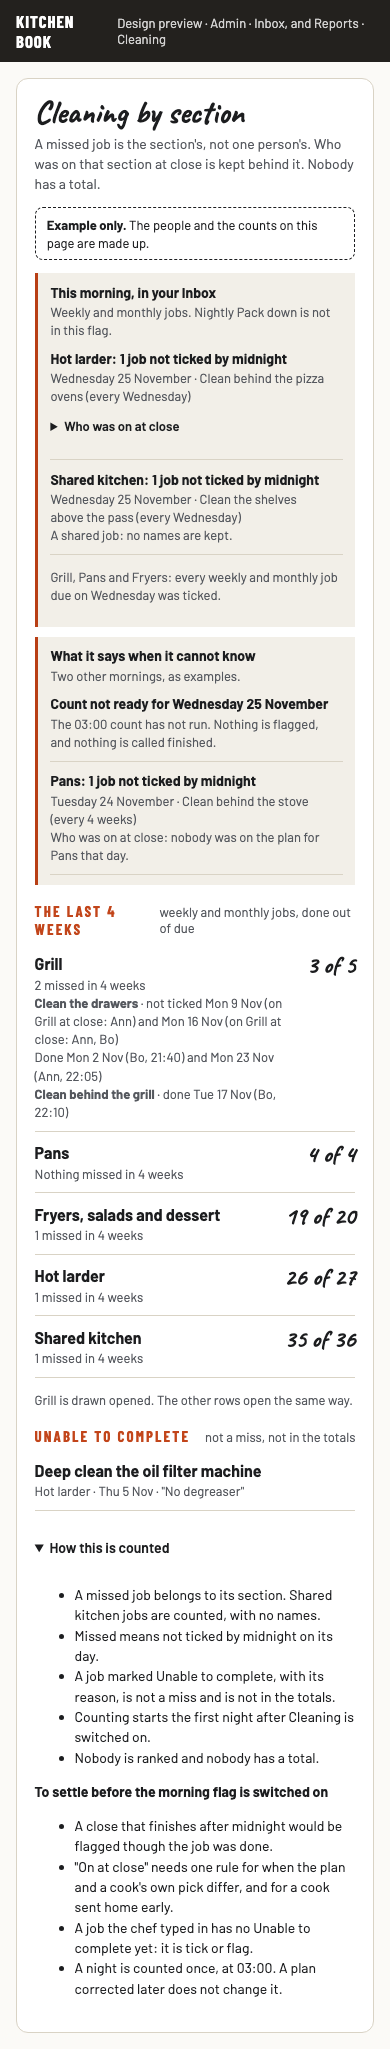
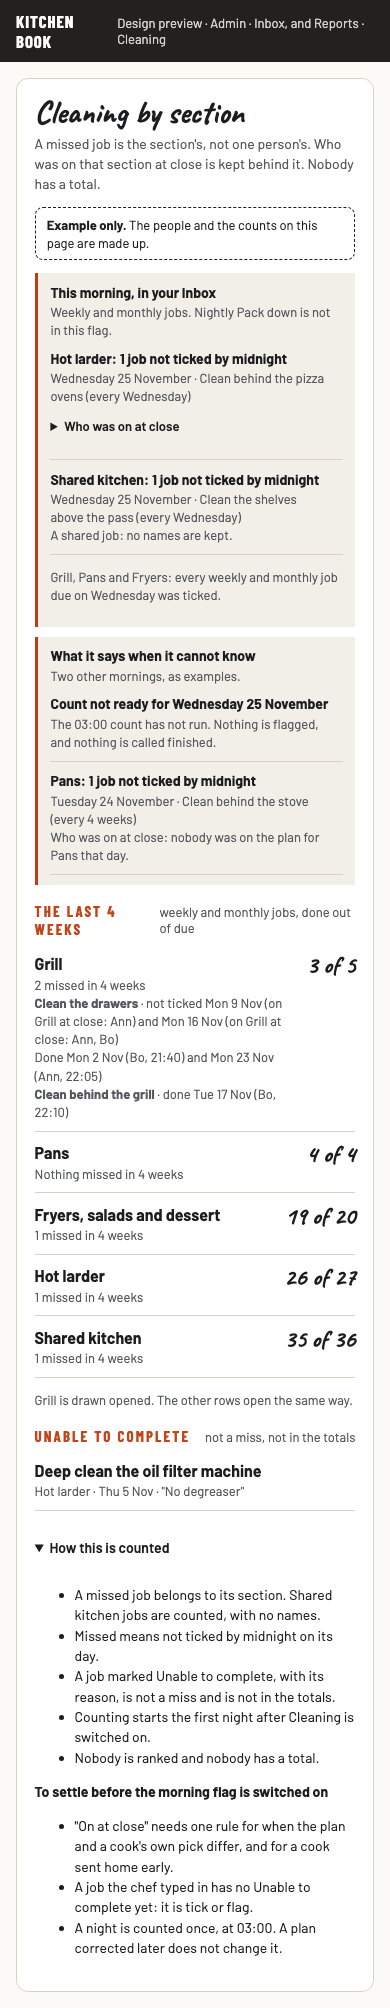
Cleaning tracking: the head chef's answers, day levels and the rule order
He answered: a close never finishes after midnight, Thursday is a heavy
day, Tuesday a medium one, and the admin sets each day's level. He asked
which should win when same-kind days and an even week clash. The planner
takes day levels and a section-first order (32 node checks), and the
brief records the three orders side by side with the recommendation.

Changed region(s): [[0.0308, 0.0, 0.9231, 0.988]]

diff --git a/docs/cleaning-tracking-options/previews/planner.js b/docs/cleaning-tracking-options/previews/planner.js
@@ -6,19 +6,25 @@
           per (days a week it happens, 1 to 3), days (the weekdays it has now, [] for none; 0 is Sunday),
           move (the chef chose it to be planned), every (a repeat's days, 2 to 30 as the rules allow: 28 for a monthly job) }
    A job that is not chosen (move false) is never touched: it only counts toward each day's load.
-   opts: { quiet: [5, 6] (Friday, Saturday), share: 0.1, cap: 5, together: true (jobs of one kind share a day) }
+   opts: { quiet: [5, 6] (Friday, Saturday), share: 0.1, cap: 5, together: true (jobs of one kind share a day),
+           level: the heaviest job each weekday takes, Sunday first (3 heavy, 2 medium, 1 light), set by the admin.
+                  Left out, it is heavy every day but the quiet ones. Given, the quiet days are its light days.
+           order: 'kind' (rule 4 before rule 5, as below) or 'section' (rule 5 before rule 4: a job joins its kind's
+                  day only when that does not make its section's heaviest night heavier) }
    check(jobs, days, opts) -> the rules a set of days breaks, in words ([] for none): what a page runs again whenever a
    chef changes or leaves out one line of a proposal, so a plan never breaks its own rules without saying so.
 
    The order the rules win in, when they pull against each other:
-   1. Friday and Saturday take light jobs only. A job with no weight is never treated as light.
+   1. A day takes no job heavier than its level: Friday and Saturday take light jobs only. A job with no weight
+      counts as medium, never as light.
    2. Friday and Saturday together hold at most a tenth of the week's jobs that come round (share).
    3. A section never gets two heavy jobs on one day, and a job on several days has them at least two days apart.
    4. The same kind of job in different sections goes on the same day, unless that would push a section past cap
       weight points on that day. Then the kind gives way, and the plan says so (gave).
    5. Each section's days are as even as they can be, then the kitchen's days.
    6. A job that has a day keeps it unless a rule above moves it or its kind's day is elsewhere. With same-kind days
-      off, a job that has a day always keeps it. Friday and Saturday are allowed for a light job, never preferred.
+      off, a job that has a day keeps it unless that day's level does not take it (rule 1). Friday and Saturday are
+      allowed for a light job, never preferred.
    A job on whole weeks (every 7, 14, 21 or 28) keeps one weekday: it gets it by the same rules, and a starting week,
    1 to every / 7, so jobs on one rhythm do not all start in the same week.
    A job on any other rhythm (every 2 to 6, 8 to 13 and so on) has no weekday to choose: it falls on a different one
@@ -42,7 +48,9 @@
   }
   function plan(jobs, opts) {
     opts = opts || {};
-    var quiet = opts.quiet || [5, 6], share = opts.share === undefined ? 0.1 : opts.share, cap = opts.cap || 5, together = opts.together !== false;
+    var quiet = opts.quiet || [5, 6], share = opts.share === undefined ? 0.1 : opts.share, cap = opts.cap || 5, together = opts.together !== false, sectionFirst = opts.order === 'section';
+    if (opts.level) quiet = [0, 1, 2, 3, 4, 5, 6].filter(function (d) { return opts.level[d] === 1; });
+    var level = opts.level || [0, 1, 2, 3, 4, 5, 6].map(function (d) { return quiet.indexOf(d) >= 0 ? 1 : 3; });
     // a job's time cost in the day's load: light 1, medium 2, heavy 3. Not set counts as medium there, and is never
     // light enough for Friday or Saturday (rule 1).
     var cost = function (j) { return j.w >= 1 && j.w <= 3 ? j.w : 2; };
@@ -69,13 +77,15 @@
       var best = null, was = (j.days || []).slice().sort().join(','), kindGave = false, heavyGave = false, where = j.sec || 'the kitchen';
       sets(j.per || 1).forEach(function (set) {
         var q = set.filter(function (d) { return quiet.indexOf(d) >= 0; }).length;
-        if (q && (j.w !== 1 || quietUsed + q > quietMax)) return;                                          // rules 1 and 2
+        if (set.some(function (d) { return level[d] < cost(j); }) || (q && quietUsed + q > quietMax)) return;   // rules 1 and 2
         // a tenth is a limit, not a target: a job that has a day is never moved onto Friday or Saturday to even the week
         if (was && set.some(function (d) { return quiet.indexOf(d) >= 0 && (j.days || []).indexOf(d) < 0; })) return;
         if (j.w === 3 && j.sec && set.some(function (d) { return heavy[j.sec] && heavy[j.sec][d]; })) { if (together && j.kind && kinds[j.kind] && set.some(function (d) { return kinds[j.kind][d]; })) heavyGave = true; return; }   // rule 3
         var load = j.sec ? set.reduce(function (n, d) { return Math.max(n, ((sec[j.sec] || [])[d] || 0) + cost(j)); }, 0) : 0;
         var mates = together ? set.reduce(function (n, d) { return n + (j.kind && kinds[j.kind] ? kinds[j.kind][d] : 0); }, 0) : 0;
-        var over = load > cap, score = (over ? 0 : -1000 * mates) + (set.join(',') === was ? (together ? -300 : -100000) : 0) + 150 * q + 100 * load + 10 * set.reduce(function (n, d) { return n + kitchen[d]; }, 0);
+        // the section's heaviest night of the week if the job goes on this set
+        var worst = j.sec ? [0, 1, 2, 3, 4, 5, 6].reduce(function (n, d) { return Math.max(n, ((sec[j.sec] || [])[d] || 0) + (set.indexOf(d) >= 0 ? cost(j) : 0)); }, 0) : 0;
+        var over = load > cap, score = (sectionFirst ? 100000 * worst : 0) + (over ? 0 : -1000 * mates) + (set.join(',') === was ? (together ? -300 : -100000) : 0) + 150 * q + 100 * load + 10 * set.reduce(function (n, d) { return n + kitchen[d]; }, 0);
         if (over && mates) kindGave = true;
         if (!best || score < best.score) best = { set: set, score: score, mates: mates, over: over, load: load };
       });
@@ -97,12 +107,15 @@
   function check(jobs, days, opts) {
     opts = opts || {};
     var quiet = opts.quiet || [5, 6], share = opts.share === undefined ? 0.1 : opts.share, cap = opts.cap || 5, out = [], sec = {}, heavy = {}, q = 0, total = 0;
+    if (opts.level) quiet = [0, 1, 2, 3, 4, 5, 6].filter(function (d) { return opts.level[d] === 1; });
+    var level = opts.level || [0, 1, 2, 3, 4, 5, 6].map(function (d) { return quiet.indexOf(d) >= 0 ? 1 : 3; }), need = function (j) { return j.w >= 1 && j.w <= 3 ? j.w : 2; };
     jobs.forEach(function (j) {
       var mine = days[j.id] || (j.every ? [] : j.days || []);
       if (!j.every && mine.length >= 7 || !mine.length) return;
       total += mine.length;
       mine.forEach(function (d) {
-        if (quiet.indexOf(d) >= 0) { q++; if (days[j.id] && j.w !== 1) out.push(j.text + ': only a light job goes on ' + NAMES[d]); }
+        if (quiet.indexOf(d) >= 0) q++;
+        if (days[j.id] && level[d] < need(j)) out.push(j.text + (level[d] === 1 ? ': only a light job goes on ' + NAMES[d] : ': a heavy job does not go on ' + NAMES[d] + ', a medium day'));
         if (!j.sec) return;
         sec[j.sec] = sec[j.sec] || [0, 0, 0, 0, 0, 0, 0]; sec[j.sec][d] += j.w >= 1 && j.w <= 3 ? j.w : 2;
         if (j.w === 3) { heavy[j.sec + d] = (heavy[j.sec + d] || 0) + 1; if (heavy[j.sec + d] === 2) out.push(j.sec + ' has two heavy jobs on ' + NAMES[d]); }
@@ -110,7 +123,12 @@
     });
     if (q > Math.floor(total * share)) out.push('Friday and Saturday hold ' + q + ' jobs, more than a tenth of the week');
     // a job already on Friday or Saturday that is not marked light is the chef's to look at: the planner never chose it
-    jobs.forEach(function (j) { if (!days[j.id] && !j.every && (j.days || []).length < 7 && (j.days || []).some(function (d) { return quiet.indexOf(d) >= 0; }) && j.w !== 1) out.push(j.text + ' is on ' + j.days.filter(function (d) { return quiet.indexOf(d) >= 0; }).map(function (d) { return NAMES[d]; }).join(' and ') + ' and is not marked light'); });
+    jobs.forEach(function (j) {
+      if (days[j.id] || j.every || (j.days || []).length >= 7) return;
+      var lightDays = (j.days || []).filter(function (d) { return level[d] === 1 && need(j) > 1; }), mediumDays = (j.days || []).filter(function (d) { return level[d] === 2 && need(j) > 2; });
+      if (lightDays.length) out.push(j.text + ' is on ' + lightDays.map(function (d) { return NAMES[d]; }).join(' and ') + ' and is not marked light');
+      if (mediumDays.length) out.push(j.text + ' is marked heavy and is on ' + mediumDays.map(function (d) { return NAMES[d]; }).join(' and ') + ', a medium day');
+    });
     Object.keys(sec).forEach(function (name) { sec[name].forEach(function (load, d) { if (load > cap && jobs.some(function (j) { return days[j.id] && j.sec === name && days[j.id].indexOf(d) >= 0; })) out.push(name + ' is at weight ' + load + ' on ' + NAMES[d] + ', over ' + cap); }); });
     return out;
   }

diff --git a/docs/cleaning-tracking-options/previews/t-mix.html b/docs/cleaning-tracking-options/previews/t-mix.html
@@ -1,2 +1,2 @@
 <!doctype html>
-<html lang="en-AU"><head><meta charset="utf-8"><meta name="viewport" content="width=device-width,initial-scale=1"><title>The mix: cleaning by section</title><link rel="stylesheet" href="../../../css/app.css"><link rel="stylesheet" href="preview.css"></head><body class="pv"><div class="pv-bar"><span>Kitchen Book</span><small>Design preview · Admin · Inbox, and Reports · Cleaning</small></div><main class="pv-page"><section class="pv-card"><h1 class="pv-title">Cleaning by section</h1><p class="pv-sub">A missed job is the section's, not one person's. Who was on that section at close is kept behind it. Nobody has a total.</p><p class="pv-eg"><b>Example only.</b> The people and the counts on this page are made up.</p><div class="pv-rules"><b>This morning, in your Inbox</b><small class="pv-note">Weekly and monthly jobs. Nightly Pack down is not in this flag.</small><div class="pv-row"><div><b>Hot larder: 1 job not ticked by midnight</b><small>Wednesday 25 November · Clean behind the pizza ovens (every Wednesday)</small><details class="pv-who"><summary>Who was on at close</summary><small>Lou, Vic</small></details></div><div></div></div><div class="pv-row"><div><b>Shared kitchen: 1 job not ticked by midnight</b><small>Wednesday 25 November · Clean the shelves above the pass (every Wednesday)</small><small>A shared job: no names are kept.</small></div><div></div></div><p class="pv-note">Grill, Pans and Fryers: every weekly and monthly job due on Wednesday was ticked.</p></div><div class="pv-rules"><b>What it says when it cannot know</b><small class="pv-note">Two other mornings, as examples.</small><div class="pv-row"><div><b>Count not ready for Wednesday 25 November</b><small>The 03:00 count has not run. Nothing is flagged, and nothing is called finished.</small></div><div></div></div><div class="pv-row"><div><b>Pans: 1 job not ticked by midnight</b><small>Tuesday 24 November · Clean behind the stove (every 4 weeks)</small><small>Who was on at close: nobody was on the plan for Pans that day.</small></div><div></div></div></div><h2 class="pv-h">The last 4 weeks <span>weekly and monthly jobs, done out of due</span></h2><div class="pv-row"><div><b>Grill</b><small>2 missed in 4 weeks</small><small><b>Clean the drawers</b> · not ticked Mon 9 Nov (on Grill at close: Ann) and Mon 16 Nov (on Grill at close: Ann, Bo)</small><small>Done Mon 2 Nov (Bo, 21:40) and Mon 23 Nov (Ann, 22:05)</small><small><b>Clean behind the grill</b> · done Tue 17 Nov (Bo, 22:10)</small></div><div class="pv-num">3 of 5</div></div><div class="pv-row"><div><b>Pans</b><small>Nothing missed in 4 weeks</small></div><div class="pv-num">4 of 4</div></div><div class="pv-row"><div><b>Fryers, salads and dessert</b><small>1 missed in 4 weeks</small></div><div class="pv-num">19 of 20</div></div><div class="pv-row"><div><b>Hot larder</b><small>1 missed in 4 weeks</small></div><div class="pv-num">26 of 27</div></div><div class="pv-row"><div><b>Shared kitchen</b><small>1 missed in 4 weeks</small></div><div class="pv-num">35 of 36</div></div><p class="pv-note">Grill is drawn opened. The other rows open the same way.</p><h2 class="pv-h">Unable to complete <span>not a miss, not in the totals</span></h2><div class="pv-row"><div><b>Deep clean the oil filter machine</b><small>Hot larder · Thu 5 Nov · "No degreaser"</small></div><div></div></div><details class="pv-fold" open><summary>How this is counted</summary><ul><li>A missed job belongs to its section. Shared kitchen jobs are counted, with no names.</li><li>Missed means not ticked by midnight on its day.</li><li>A job marked Unable to complete, with its reason, is not a miss and is not in the totals.</li><li>Counting starts the first night after Cleaning is switched on.</li><li>Nobody is ranked and nobody has a total.</li></ul><b>To settle before the morning flag is switched on</b><ul><li>A close that finishes after midnight would be flagged though the job was done.</li><li>"On at close" needs one rule for when the plan and a cook's own pick differ, and for a cook sent home early.</li><li>A job the chef typed in has no Unable to complete yet: it is tick or flag.</li><li>A night is counted once, at 03:00. A plan corrected later does not change it.</li></ul></details></section></main></body></html>
+<html lang="en-AU"><head><meta charset="utf-8"><meta name="viewport" content="width=device-width,initial-scale=1"><title>The mix: cleaning by section</title><link rel="stylesheet" href="../../../css/app.css"><link rel="stylesheet" href="preview.css"></head><body class="pv"><div class="pv-bar"><span>Kitchen Book</span><small>Design preview · Admin · Inbox, and Reports · Cleaning</small></div><main class="pv-page"><section class="pv-card"><h1 class="pv-title">Cleaning by section</h1><p class="pv-sub">A missed job is the section's, not one person's. Who was on that section at close is kept behind it. Nobody has a total.</p><p class="pv-eg"><b>Example only.</b> The people and the counts on this page are made up.</p><div class="pv-rules"><b>This morning, in your Inbox</b><small class="pv-note">Weekly and monthly jobs. Nightly Pack down is not in this flag.</small><div class="pv-row"><div><b>Hot larder: 1 job not ticked by midnight</b><small>Wednesday 25 November · Clean behind the pizza ovens (every Wednesday)</small><details class="pv-who"><summary>Who was on at close</summary><small>Lou, Vic</small></details></div><div></div></div><div class="pv-row"><div><b>Shared kitchen: 1 job not ticked by midnight</b><small>Wednesday 25 November · Clean the shelves above the pass (every Wednesday)</small><small>A shared job: no names are kept.</small></div><div></div></div><p class="pv-note">Grill, Pans and Fryers: every weekly and monthly job due on Wednesday was ticked.</p></div><div class="pv-rules"><b>What it says when it cannot know</b><small class="pv-note">Two other mornings, as examples.</small><div class="pv-row"><div><b>Count not ready for Wednesday 25 November</b><small>The 03:00 count has not run. Nothing is flagged, and nothing is called finished.</small></div><div></div></div><div class="pv-row"><div><b>Pans: 1 job not ticked by midnight</b><small>Tuesday 24 November · Clean behind the stove (every 4 weeks)</small><small>Who was on at close: nobody was on the plan for Pans that day.</small></div><div></div></div></div><h2 class="pv-h">The last 4 weeks <span>weekly and monthly jobs, done out of due</span></h2><div class="pv-row"><div><b>Grill</b><small>2 missed in 4 weeks</small><small><b>Clean the drawers</b> · not ticked Mon 9 Nov (on Grill at close: Ann) and Mon 16 Nov (on Grill at close: Ann, Bo)</small><small>Done Mon 2 Nov (Bo, 21:40) and Mon 23 Nov (Ann, 22:05)</small><small><b>Clean behind the grill</b> · done Tue 17 Nov (Bo, 22:10)</small></div><div class="pv-num">3 of 5</div></div><div class="pv-row"><div><b>Pans</b><small>Nothing missed in 4 weeks</small></div><div class="pv-num">4 of 4</div></div><div class="pv-row"><div><b>Fryers, salads and dessert</b><small>1 missed in 4 weeks</small></div><div class="pv-num">19 of 20</div></div><div class="pv-row"><div><b>Hot larder</b><small>1 missed in 4 weeks</small></div><div class="pv-num">26 of 27</div></div><div class="pv-row"><div><b>Shared kitchen</b><small>1 missed in 4 weeks</small></div><div class="pv-num">35 of 36</div></div><p class="pv-note">Grill is drawn opened. The other rows open the same way.</p><h2 class="pv-h">Unable to complete <span>not a miss, not in the totals</span></h2><div class="pv-row"><div><b>Deep clean the oil filter machine</b><small>Hot larder · Thu 5 Nov · "No degreaser"</small></div><div></div></div><details class="pv-fold" open><summary>How this is counted</summary><ul><li>A missed job belongs to its section. Shared kitchen jobs are counted, with no names.</li><li>Missed means not ticked by midnight on its day.</li><li>A job marked Unable to complete, with its reason, is not a miss and is not in the totals.</li><li>Counting starts the first night after Cleaning is switched on.</li><li>Nobody is ranked and nobody has a total.</li></ul><b>To settle before the morning flag is switched on</b><ul><li>"On at close" needs one rule for when the plan and a cook's own pick differ, and for a cook sent home early.</li><li>A job the chef typed in has no Unable to complete yet: it is tick or flag.</li><li>A night is counted once, at 03:00. A plan corrected later does not change it.</li></ul></details></section></main></body></html>

diff --git a/docs/cleaning-tracking-options/previews/planner.test.js b/docs/cleaning-tracking-options/previews/planner.test.js
@@ -49,5 +49,21 @@ ok(jobs.filter(j => j.move && j.days.length).every(j => P.tonight(jobs, r.days, 
 // the switch after a save: Off never moves a job that has a day, so it puts none back either
 const saved = J.jobs(chosen).map(j => r.days[j.id] && !j.every ? Object.assign(j, { days: r.days[j.id].slice() }) : j), back = P.plan(saved, { together: false });
 ok(saved.filter(j => j.move && !j.every).every(j => j.days.join() === back.days[j.id].join()), 'after a save with same-kind days on, choosing off moves no job and puts none back');
+// the head chef's day levels (26 Nov 2026): Thursday heavy, Tuesday medium, Friday and Saturday light. Sunday, Monday and Wednesday heavy is the lead's reading.
+const LEVEL = [3, 3, 2, 3, 3, 1, 1], cost = j => j.w >= 1 && j.w <= 3 ? j.w : 2;
+const orders = { off: { level: LEVEL, together: false }, kind: { level: LEVEL }, section: { level: LEVEL, order: 'section' } }, lv = {}; Object.keys(orders).forEach(k => { lv[k] = P.plan(J.jobs(chosen), orders[k]); });
+ok(Object.keys(lv).every(k => jobs.filter(j => j.move).every(j => lv[k].days[j.id].every(d => LEVEL[d] >= cost(j)))), 'with day levels set, no chosen job goes on a day lighter than the job, in any order: no heavy job on a medium Tuesday');
+ok(Object.keys(lv).every(k => P.check(jobs, lv[k].days, orders[k]).length === 1) && P.check(jobs, {}, { level: LEVEL }).some(m => /is marked heavy and is on Tuesday, a medium day/.test(m)), 'each plan breaks no day level, and a heavy job left on a medium day is named for the chef');
+const worstOf = days => { const s = {}; jobs.forEach(j => { if (!j.sec || j.every) return; (days[j.id] || (j.days.length < 7 ? j.days : [])).forEach(d => { s[j.sec] = s[j.sec] || [0, 0, 0, 0, 0, 0, 0]; s[j.sec][d] += cost(j); }); }); const o = {}; Object.keys(s).forEach(k => { o[k] = Math.max.apply(null, s[k]); }); return o; };
+const wOff = worstOf(lv.off.days), wKind = worstOf(lv.kind.days), wSec = worstOf(lv.section.days);
+ok(Object.keys(wOff).every(k => wSec[k] <= wOff[k]) && Object.keys(wOff).some(k => wSec[k] < wOff[k]), 'section first: no section\'s heaviest night is heavier than with same-kind days off, and some are lighter (' + Object.keys(wOff).map(k => k.split(',')[0] + ' ' + wOff[k] + ' to ' + wSec[k]).join(', ') + ')');
+ok(Object.keys(wOff).some(k => wKind[k] > wOff[k]), 'kind first: some section\'s heaviest night is heavier than with same-kind days off (' + Object.keys(wOff).map(k => k.split(',')[0] + ' ' + wOff[k] + ' to ' + wKind[k]).join(', ') + ')');
+const shared = (days, kind) => { const m = {}; jobs.filter(j => j.move && !j.every && j.kind === kind).forEach(j => days[j.id].forEach(d => { (m[d] = m[d] || new Set()).add(j.sec); })); return Object.values(m).some(x => x.size > 1); };
+const kindsIn2 = [...new Set(jobs.filter(j => j.move && !j.every && j.kind).map(j => j.kind))].filter(k => new Set(jobs.filter(j => j.move && !j.every && j.kind === k).map(j => j.sec)).size > 1);
+ok(kindsIn2.length === 4 && kindsIn2.every(k => shared(lv.section.days, k)), 'section first: every kind found in two or more sections still has a day that two sections share (' + kindsIn2.join(', ') + ')');
+const savedSec = J.jobs(chosen).map(j => lv.section.days[j.id] && !j.every ? Object.assign(j, { days: lv.section.days[j.id].slice() }) : j), againSec = P.plan(savedSec, orders.section);
+ok(savedSec.filter(j => j.move && !j.every).every(j => j.days.join() === againSec.days[j.id].join()), 'section first: planning again after a save moves no job');
+const perDayOf = days => [0, 1, 2, 3, 4, 5, 6].map(d => jobs.filter(j => !j.every && (j.move ? days[j.id] : j.days.length < 7 ? j.days : []).includes(d)).length).join(',');
+console.log('day levels, weekly jobs Sunday to Saturday. off: ' + perDayOf(lv.off.days) + '; kind first: ' + perDayOf(lv.kind.days) + '; section first: ' + perDayOf(lv.section.days) + '; dated jobs moved: ' + ['off', 'kind', 'section'].map(k => jobs.filter(j => j.move && j.days.length && j.days.length < 7 && j.days.join() !== lv[k].days[j.id].join()).length).join(', '));
 console.log('with same-kind days: ' + [0, 1, 2, 3, 4, 5, 6].map(d => jobs.filter(j => !j.every && (j.move ? r.days[j.id] : j.days.length < 7 ? j.days : []).includes(d)).length).join(',') + '; without: ' + [0, 1, 2, 3, 4, 5, 6].map(perDay).join(',') + '; moved without: ' + jobs.filter(j => j.move && j.days.length && j.days.length < 7 && j.days.join() !== apart.days[j.id].join()).length);
 console.log('PASS planner: ' + n + ' checks');

diff --git a/docs/cleaning-tracking-options/index.html b/docs/cleaning-tracking-options/index.html
@@ -36,6 +36,7 @@
   <span class="tag">Recommended: the two mixes below. Council: list of changes first for planning (4 of 6), by job first for tracking (5 of 6).</span>
 
   <h3>The two mixes</h3>
+  <p class="lead"><b>Out of date since your answers on 26 November:</b> the two Plan the days pictures. They still show the same-kind switch and put behind equipment on Tuesday, which your medium Tuesday rules out. They are redrawn once you agree the order. The brief has the new numbers.</p>
   <p class="lead">What the council's picks and your word on sections add up to. Three reviewers checked a first drawing and asked for changes. These are redrawn with them; no reviewer has seen the redraw. The weights, kinds, people and counts are made up.</p>
   <div class="phones">
     <figure>
@@ -121,7 +122,7 @@
   </div>
 
   <h3>How these were made</h3>
-  <p class="lead">Static pages with the book's own stylesheet, written by <code>previews/build.cjs</code>. The planning pages come from <code>previews/planner.js</code>, one function run on the book's built-in lists and checked with 26 node tests. Nothing here was tapped, saved or timed. Numbers: <code>previews/plan.json</code>, <code>previews/measurements.json</code>.</p>
+  <p class="lead">Static pages with the book's own stylesheet, written by <code>previews/build.cjs</code>. The planning pages come from <code>previews/planner.js</code>, one function run on the book's built-in lists and checked with 32 node tests. Nothing here was tapped, saved or timed. Numbers: <code>previews/plan.json</code>, <code>previews/measurements.json</code>.</p>
 </main>
 </body>
 </html>

diff --git a/docs/cleaning-tracking-options/brief.md b/docs/cleaning-tracking-options/brief.md
@@ -241,37 +241,78 @@ Before ready, on the implemented app at 390, 768 and 1280 px: every save state, 
 | Duolingo: progress shows real work, no points | Not relevant | Works: no totals per person |
 | Linear: one frame, no second way to edit | Works: the strip never edits | Works: rows, no table |
 
+## The head chef's answers, 26 November 2026
+
+After the redrawn mixes he wrote, exactly as typed:
+
+> Oh yeah Thursday is a heavy cleaning day too, Tuesday is a medium cleaning day, let the admin set the heavy was of th days too.
+> Nah my closes don't finish after midnight.
+> I don't know which one to prioritise when the] clash, what would you recommend?
+
+The lead's reading:
+
+- Each weekday has a level, the heaviest job it takes: heavy, medium or light. Thursday is heavy, Tuesday is medium, Friday and Saturday are light (his earlier word). "let the admin set the heavy was of th days" is read as "let the admin set how heavy each day is". Sunday, Monday and Wednesday as heavy is the lead's reading of his earlier "Sunday to Wednesday", not his word.
+- A close never finishes after midnight. So "not ticked by midnight" is a fair meaning of missed, and that question no longer holds the morning flag.
+- "Which one to prioritise when they clash" is read as same-kind days against an even week, the two wishes the mixes showed pulling apart.
+
+### What the planner does with his day levels
+
+The lead's run, on the example kinds and weights. `previews/planner.js` now takes the day levels as an option, and has a second rule order, section first: a job joins its kind's day only when that does not make its section's heaviest night heavier. 32 node checks. The week is weekly jobs per day, Sunday to Saturday. The section columns are each section's heaviest night in weight points (light 1, medium 2, heavy 3).
+
+| Order | Week | Dated jobs moved | Grill | Pans | Fryers | Hot larder | Kinds with a day two sections share |
+| --- | --- | --- | --- | --- | --- | --- | --- |
+| Now | 7,4,4,4,4,1,0 | | 2 | 3 | 3 | 5 | |
+| Same-kind days off | 7,5,5,4,4,1,0 | 1 of 15 | 2 | 3 | 3 | 5 | 3 of 4, not by design |
+| Kind first (the switch On, as drawn) | 5,8,5,3,4,1,0 | 10 of 15 | 2 | 3 | 4 | 5 | 4 of 4 |
+| Section first, then kind | 5,5,5,5,5,1,0 | 10 of 15 | 2 | 3 | 2 | 4 | 4 of 4 |
+
+The one move with same-kind days off is a job the example marks heavy that sits on Tuesday. It rests on a made-up weight, not on a fault in his list.
+
+### The lead's recommendation on the clash
+
+**The section's night wins, then same-kind days.** Not reviewed by the council: one run on made-up weights, and his own may give another result.
+
+- His first ask was that jobs do not all fall on the same day. Same-kind days came after, with "maybe even".
+- On the example it gives the most even week of the three, makes two sections' heaviest night lighter and none heavier, and every kind still has a day that two sections share. Kind first makes Fryers' heaviest night heavier.
+- With this order the switch is not needed. One rule order, no stored choice, and no "changing this later does not put days back". Planning again after a save moves no job (node check).
+- Cost: 10 of 15 dated jobs move, the same as kind first. While Cleaning is off a move costs no wait, so the plan is cheapest to set once, before Cleaning is switched on. After that each move costs that job one uneven week, shown on its line.
+- Downside: not every job of a kind lands on one day. Shelves in the example fall on Monday, Wednesday and Thursday; two sections share Monday and Fryers has two on Thursday.
+
+Out of date since these answers: both Plan the days pictures. They show the switch, say "behind equipment on Tuesday", and give monthly jobs a first date on a Tuesday, which a medium Tuesday rules out for a heavy job. They are redrawn once he agrees the order.
+
+Plan against own pick, still to settle for "who was on at close": the lead recommends that a cook's own pick wins over the plan, as the later and first-hand record, and that a day with neither says "nobody on the plan".
+
 ## Recommendation
 
-**Recommend both mixes, built in this order, with the morning flag held until the head chef answers the midnight question.**
+**Recommend both mixes, built in this order.** The midnight question is answered, so it no longer holds the morning flag. The flag still waits on two things: one rule for who was on when the plan and a cook's own pick differ, and Unable to complete for a job the chef typed in.
 
-1. **The nightly count, now.** Keep each missed and done job that comes round by its root id, with its section and who did it, leave Unable out of the totals, record the first night Cleaning is on, and bump `CLEAN_V`. It is cheapest before Cleaning is switched on, and nothing can be shown until it has run.
-2. **Weight and kind in the job's form, then Plan the days (P-mix)** with same-kind days as a switch, each section's heaviest night shown, and a job due tonight said plainly. It carries weights, Friday and Saturday light only, moving dated jobs and same-kind days, for weekly and monthly jobs. A job every 2 or 3 weeks is planned like a monthly one. A job on a rhythm that is not whole weeks (every 2, 3 or 10 days) gets only a start day, not a weekday: he asked for any rhythm, and that is as far as such a rhythm can go (see Not hidden by the ranking). It and shows what each choice does to the week before anything is saved.
+1. **The nightly count, now.** Keep each missed and done job that comes round by its root id, with its section and who did it, leave Unable out of the totals, record the first night Cleaning is on, and bump `CLEAN_V`. It is cheapest before Cleaning is switched on, and nothing can be shown until it has run. It does not depend on any planner question.
+2. **Weight and kind in the job's form, each day's level set by the admin, then Plan the days (P-mix)** with one rule order (the section's night, then same-kind days) in place of the switch, each section's heaviest night shown, and a job due tonight said plainly. It carries weights, day levels, moving dated jobs and same-kind days, for weekly and monthly jobs. A job every 2 or 3 weeks is planned like a monthly one. A job on a rhythm that is not whole weeks (every 2, 3 or 10 days) gets only a start day, not a weekday: he asked for any rhythm, and that is as far as such a rhythm can go (see Not hidden by the ranking). The page shows what the plan does to the week before anything is saved.
 3. **Cleaning by section in Reports (T-mix), then the Inbox flag** with names one tap behind it.
 
 Why these beat the originals: P-C alone hid the week and could break its own rules on one untick; P-B alone hid what a move costs; T-A alone showed only blame. The mixes keep each design's strongest part and drop the parts most reviewers rejected, each named in the mix table above. In the follow-up all three reviewers said build the mix, each with changes; none preferred an original design.
 
-Main downside: Plan the days has the most states of any option to build and test, for a page used at setup and now and then, and it is long on a phone: 3.0 screens with same-kind days off and 5.3 with them on (Preview); and tracking shows nothing until the count has run for a few weeks.
+Main downside: Plan the days has the most states of any option to build and test, for a page used at setup and now and then, and it is long on a phone: 3.0 screens with no moves and 5.3 with ten (Preview, as drawn before his answers); and tracking shows nothing until the count has run for a few weeks.
 
 Not hidden by the ranking:
 
-- His two wishes pull against each other on his list as the lead tagged it: the kinds and weights are made-up examples, and his own may change the result. With them, same-kind days cost 10 moves and a less even week. The switch makes that his choice each time; which way it starts is his to say.
-- A job on a rhythm that is not whole weeks (every 2, 3 or 10 days; the rules allow 2 to 30) cannot be given a day. It falls on a different weekday each time, so it reaches Friday and Saturday whatever its weight and the light-only rule cannot hold for it. The planner only starts two such jobs of one section on different days, never the night they are saved. A job every 7, 14, 21 or 28 days keeps its weekday and gets a starting week (2 node checks). The lists hold one job off whole weeks today (Change grill drip trays, every 2 days, a Pack down step, never moved).
-- He named Sunday to Wednesday for heavier work. The planner also uses Thursday.
-- A moved job has one uneven week, up to 13 days between cleans in the example (saved on a Wednesday; another save day gives other waits).
+- His two wishes pull against each other on his list as the lead tagged it: the kinds and weights are made-up examples, and his own may change the result. The lead's answer is the rule order above; it is one run, not a council finding.
+- A job on a rhythm that is not whole weeks (every 2, 3 or 10 days; the rules allow 2 to 30) cannot be given a day. It falls on a different weekday each time, so it reaches Friday and Saturday whatever its weight and no day level can hold for it. The planner only starts two such jobs of one section on different days, never the night they are saved. A job every 7, 14, 21 or 28 days keeps its weekday and gets a starting week (2 node checks). The lists hold one job off whole weeks today (Change grill drip trays, every 2 days, a Pack down step, never moved).
+- A moved job has one uneven week once Cleaning is on, up to 13 days between cleans in the example as first drawn (saved on a Wednesday; another save day gives other waits).
 - A missed weekly job is not due again until its next day, so a flag reports a miss and does not get it cleaned.
 - The skeptic would hold bulk moves until real weights and kinds exist, and the head chef reviewer would build the tracking page only after four weeks of counts. Step 1 does not conflict with either.
-- The mixes are a lead synthesis. Three reviewers (skeptic, keeper, cook) checked the first drawing and asked for changes. The lead redrew both; no reviewer has seen the redraw, and the head chef, new starter and screen designer have seen neither.
+- The mixes are a lead synthesis. Three reviewers (skeptic, keeper, cook) checked the first drawing and asked for changes. The lead redrew both; no reviewer has seen the redraw, and the head chef, new starter and screen designer have seen neither. No reviewer has seen day levels or the section-first order.
 
 ## Open with the head chef
 
-1. Does a close ever finish after midnight? It decides whether the morning flag can be trusted.
-2. "Not all tasks for that section": weekly and monthly jobs only, or nightly Pack down too?
-3. Same-kind days: on or off to start with?
-4. Is Thursday a day for heavy jobs?
-5. When the plan and a cook's own pick differ, which is "on that section"?
-6. The flag and the rows for the admin only, or for sous chefs too (a rules change)?
+Answered on 26 November 2026: a close never finishes after midnight; Thursday is a heavy day, Tuesday a medium day; the admin sets each day's level.
+
+1. The order when they clash: the section's night first, then same-kind days (the lead's recommendation)?
+2. Are Sunday, Monday and Wednesday heavy days? That is the lead's reading.
+3. "Not all tasks for that section": weekly and monthly jobs only, or nightly Pack down too?
+4. When the plan and a cook's own pick differ, which is "on that section"? The lead recommends the pick.
+5. The flag and the rows for the admin only, or for sous chefs too (a rules change)?
 
 ## Chosen
 
-Not chosen yet. The head chef decides.
+Not chosen yet. He has answered questions and asked for a recommendation; he has not said build. The head chef decides.

diff --git a/docs/session-map.md b/docs/session-map.md
@@ -24,9 +24,9 @@ The head chef asked for cleaning tracking in the admin panel and a button that p
 
 | Files | Role and checks |
 | --- | --- |
-| `docs/cleaning-tracking-options/` | Proposal, brief, the three reviewer packets, the design page (`index.html`), and `previews/`: the pages with `build.cjs`, the preview planner `planner.js` (pure; `plan()`, `check()`, `tonight()`) with `planner.test.js` (26 node checks, run by hand, not by Click tests) and `jobs.js` (example kinds and weights, made up). |
+| `docs/cleaning-tracking-options/` | Proposal, brief, the three reviewer packets, the design page (`index.html`), and `previews/`: the pages with `build.cjs`, the preview planner `planner.js` (pure; `plan()`, `check()`, `tonight()`) with `planner.test.js` (32 node checks, run by hand, not by Click tests) and `jobs.js` (example kinds and weights, made up). |
 
-Open with the head chef: whether a close ever finishes after midnight, which jobs the flag covers, same-kind days on or off to start, whether Thursday takes heavy jobs, plan or own pick for "on that section", admin only or sous chefs too.
+Answered by the head chef on 26 November: a close never finishes after midnight; Thursday is a heavy day and Tuesday a medium one; the admin sets each day's level. Open: the order when same-kind days and an even week clash (the lead recommends the section's night first), whether Sunday, Monday and Wednesday are heavy, which jobs the flag covers, plan or own pick for "on that section", admin only or sous chefs too.
 
 ## Fewer reloads and a clearer long wait, 24 November 2026 (chosen)
 
